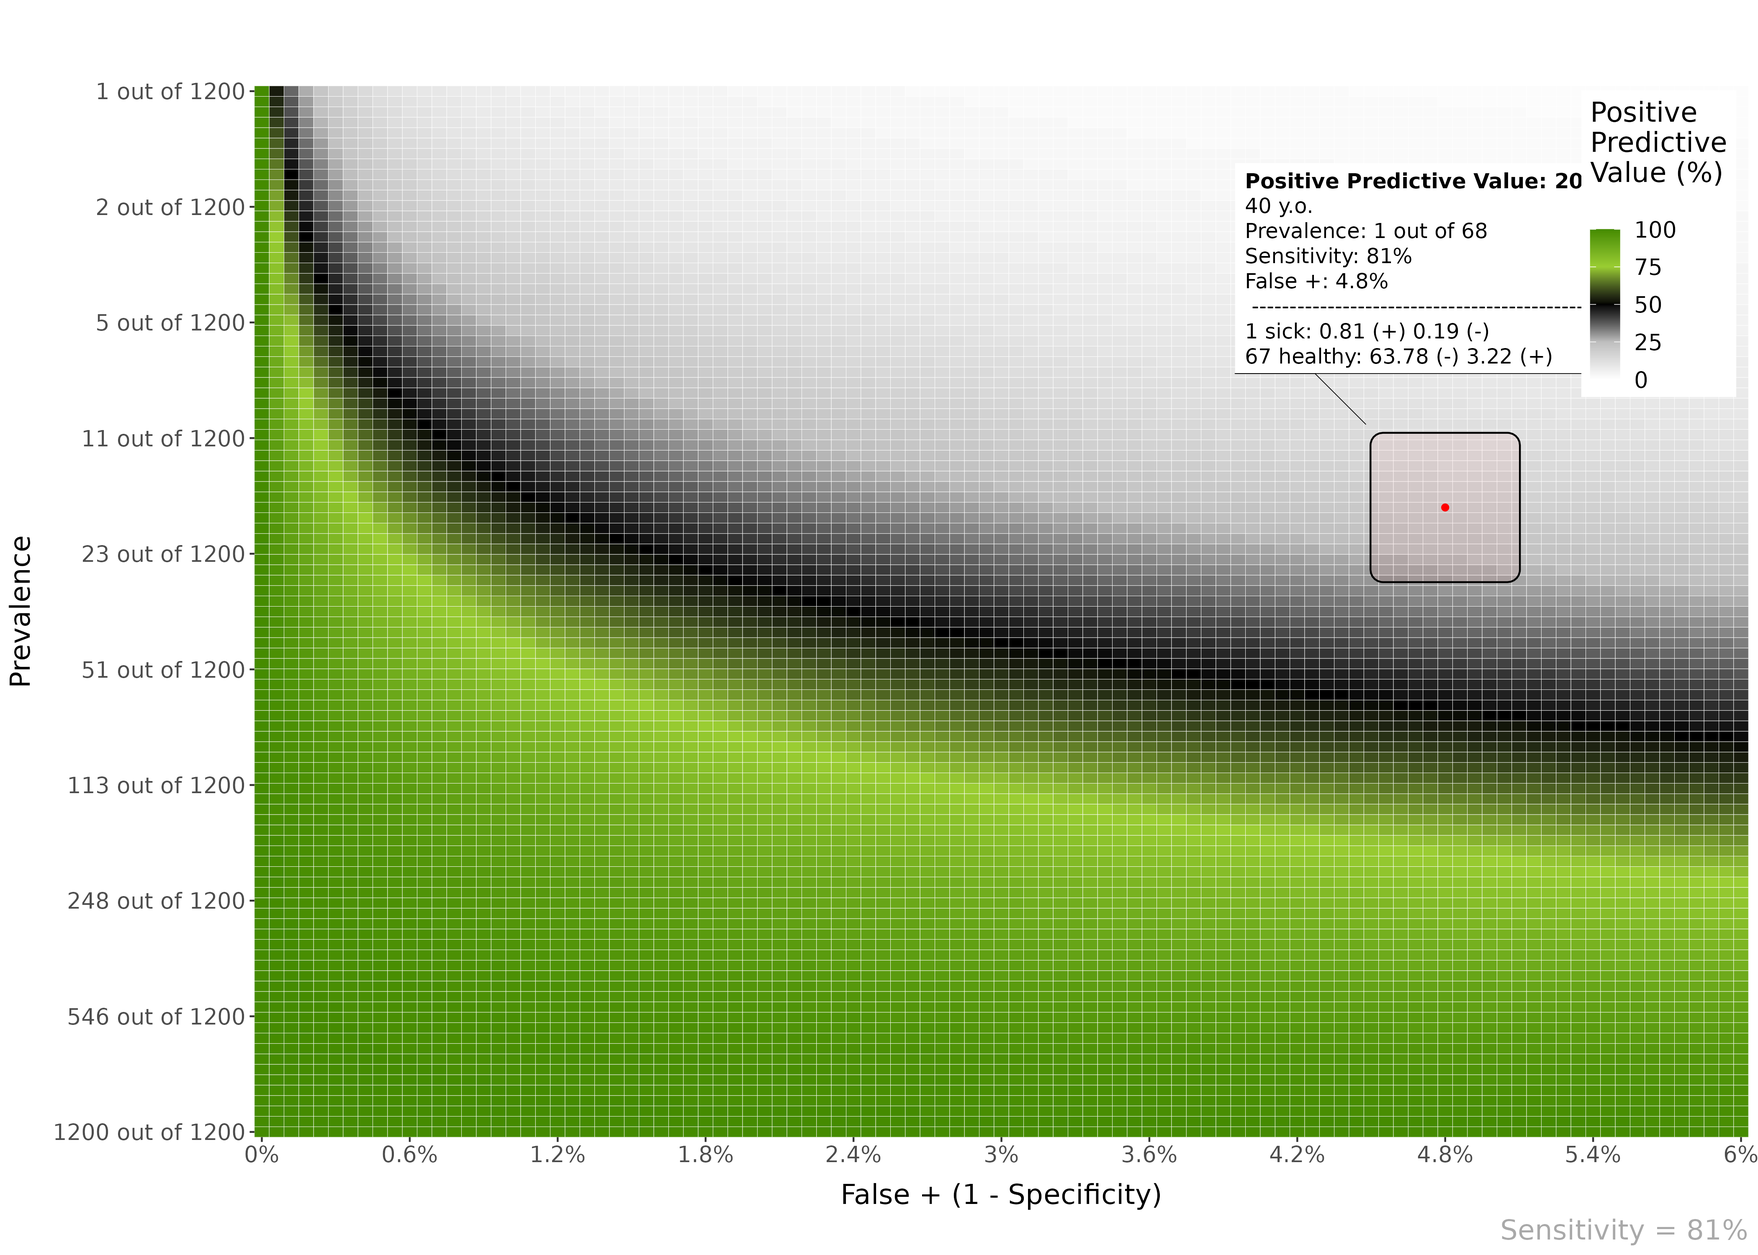
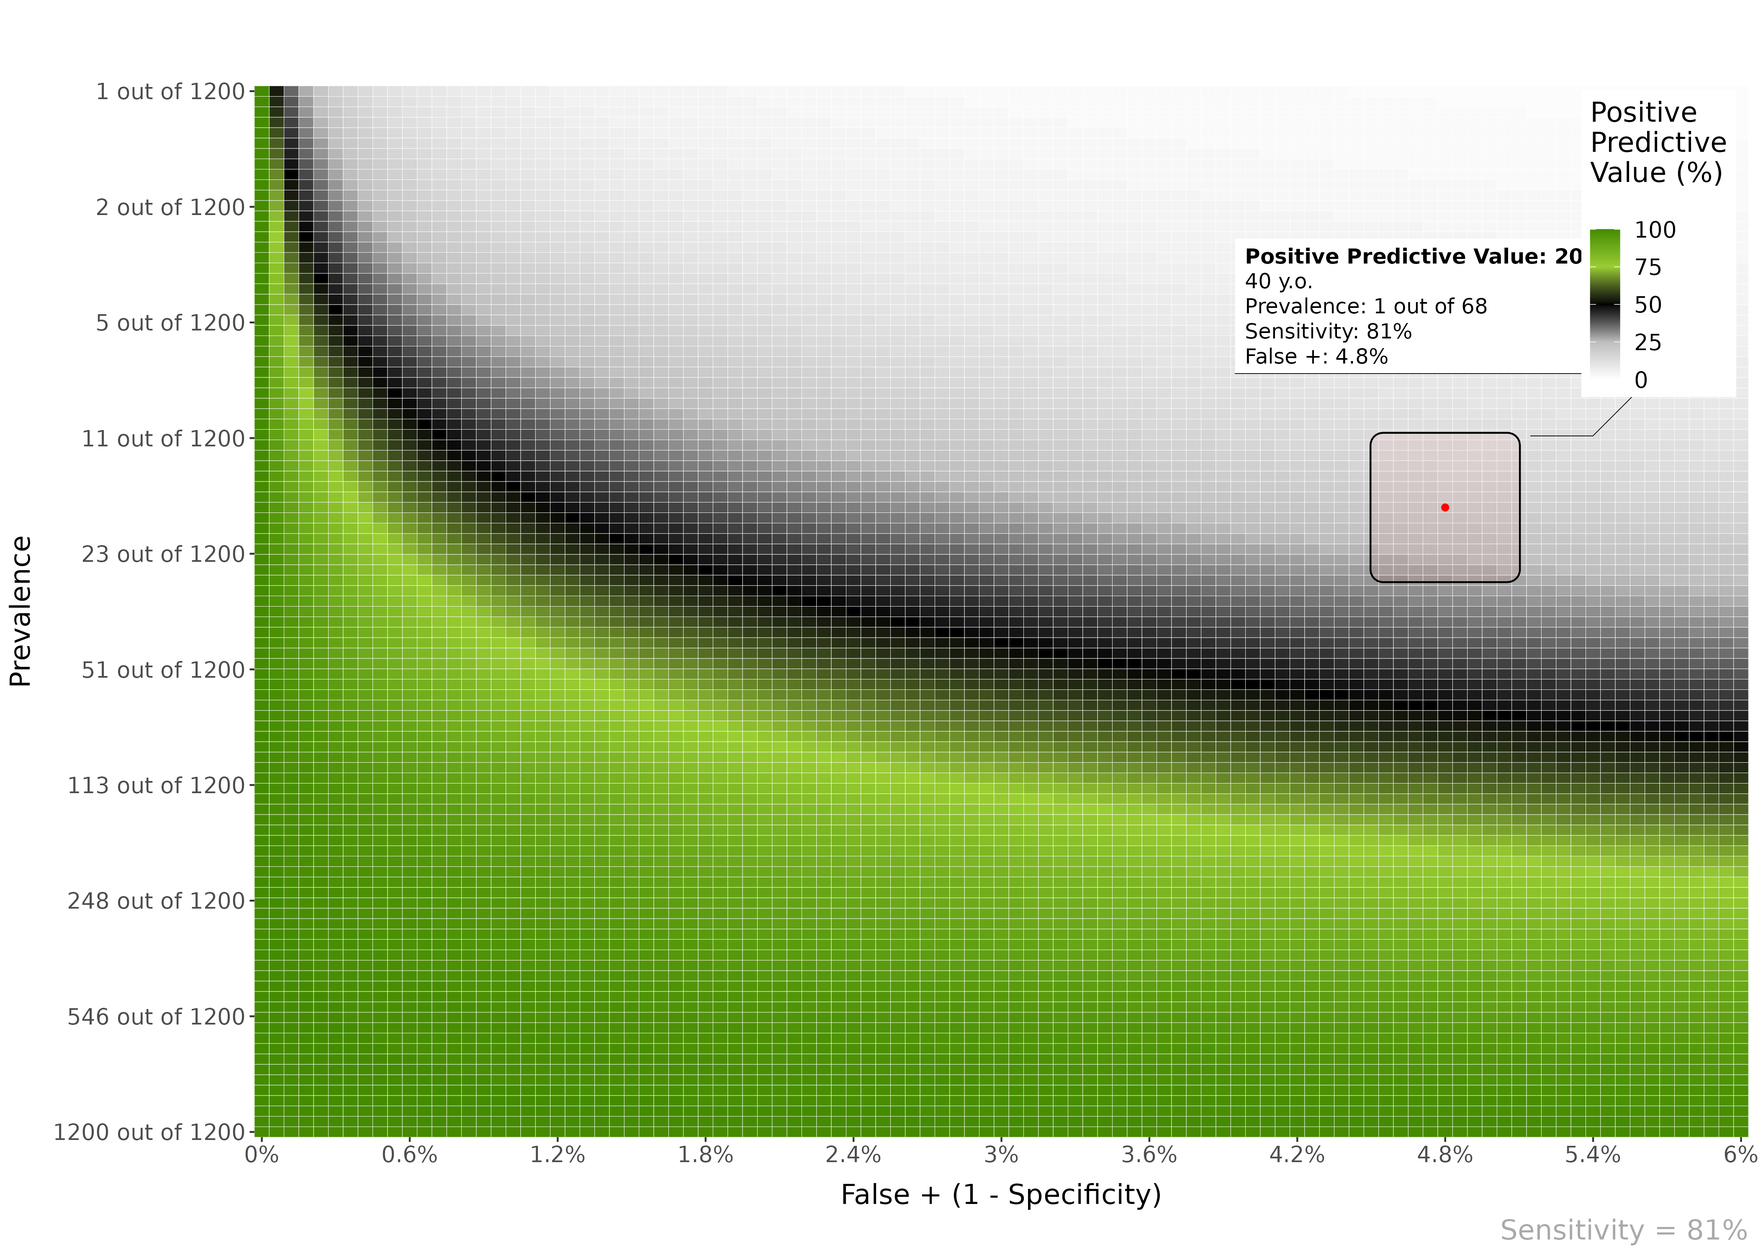
update docs

Changed region(s): [[0.7174, 0.124, 0.9045, 0.31]]

diff --git a/docs/articles/introduction.html b/docs/articles/introduction.html
@@ -33,7 +33,7 @@
     
     <a class="navbar-brand me-2" href="../index.html">BayesianReasoning</a>
 
-    <small class="nav-text text-muted me-auto" data-bs-toggle="tooltip" data-bs-placement="bottom" title="">0.4.0.9990</small>
+    <small class="nav-text text-muted me-auto" data-bs-toggle="tooltip" data-bs-placement="bottom" title="">0.4.0</small>
 
     
     <button class="navbar-toggler" type="button" data-bs-toggle="collapse" data-bs-target="#navbar" aria-controls="navbar" aria-expanded="false" aria-label="Toggle navigation">
@@ -79,7 +79,7 @@
       <img src="../logo.png" class="logo" alt=""><h1>Introduction to BayesianReasoning</h1>
                         <h4 data-toc-skip class="author">Gorka Navarrete</h4>
             
-            <h4 data-toc-skip class="date">2021-12-18</h4>
+            <h4 data-toc-skip class="date">2021-12-20</h4>
       
       <small class="dont-index">Source: <a href="https://github.com/gorkang/BayesianReasoning/blob/HEAD/vignettes/introduction.Rmd" class="external-link"><code>vignettes/introduction.Rmd</code></a></small>
       <div class="d-none name"><code>introduction.Rmd</code></div>
@@ -130,7 +130,7 @@
             Sensitivity <span class="op">=</span> <span class="fl">100</span>, 
             Language <span class="op">=</span> <span class="st">"en"</span><span class="op">)</span>
 <span class="co">#&gt; Warning in process_variables(min_Prevalence = min_Prevalence, max_Prevalence</span>
-<span class="co">#&gt; = max_Prevalence, : Specificity and limits_Specificity are NULL. Setting</span>
+<span class="co">#&gt; = max_Prevalence, : * Specificity and limits_Specificity are NULL. Setting</span>
 <span class="co">#&gt; Specificity = 95 and limits_Specificity = c(90, 100)</span></code></pre></div>
 <p><img src="introduction_files/figure-html/heatmap-1.png" width="4200"></p>
 <hr>
@@ -146,7 +146,7 @@
             Specificity <span class="op">=</span> <span class="fl">95</span>, 
             Language <span class="op">=</span> <span class="st">"en"</span><span class="op">)</span>
 <span class="co">#&gt; Warning in process_variables(min_Prevalence = min_Prevalence, max_Prevalence</span>
-<span class="co">#&gt; = max_Prevalence, : Sensitivity and limits_Specificity are NULL. Setting</span>
+<span class="co">#&gt; = max_Prevalence, : * Sensitivity and limits_Specificity are NULL. Setting</span>
 <span class="co">#&gt; Sensitivity = 95 and limits_Sensitivity = c(90, 100)</span></code></pre></div>
 <p><img src="introduction_files/figure-html/NPV-heatmap-1.png" width="4200"></p>
 <hr>
@@ -168,12 +168,26 @@
             overlay_prevalence_1 <span class="op">=</span> <span class="fl">1</span>,
             overlay_prevalence_2 <span class="op">=</span> <span class="fl">68</span><span class="op">)</span></code></pre></div>
 <p><img src="introduction_files/figure-html/area-1.png" width="4200"></p>
+<p>The area plot overlay can show more details about how the calculation of PPV/NPV is performed:</p>
+<div class="sourceCode" id="cb4"><pre class="downlit sourceCode r">
+<code class="sourceCode R">
+<span class="fu"><a href="../reference/PPV_heatmap.html">PPV_heatmap</a></span><span class="op">(</span>min_Prevalence <span class="op">=</span> <span class="fl">1</span>, max_Prevalence <span class="op">=</span> <span class="fl">1200</span>, 
+            Sensitivity <span class="op">=</span> <span class="fl">81</span>, 
+            limits_Specificity <span class="op">=</span> <span class="fu"><a href="https://rdrr.io/r/base/c.html" class="external-link">c</a></span><span class="op">(</span><span class="fl">94</span>, <span class="fl">100</span><span class="op">)</span>,
+            label_subtitle <span class="op">=</span> <span class="st">"Prenatal screening for Down Syndrome by Age"</span>, 
+            overlay_extra_info <span class="op">=</span> <span class="cn">TRUE</span>,
+            overlay <span class="op">=</span> <span class="st">"area"</span>,
+            overlay_labels <span class="op">=</span> <span class="st">"40 y.o."</span>,
+            overlay_position_FP <span class="op">=</span> <span class="fl">4.8</span>,
+            overlay_prevalence_1 <span class="op">=</span> <span class="fl">1</span>,
+            overlay_prevalence_2 <span class="op">=</span> <span class="fl">68</span><span class="op">)</span></code></pre></div>
+<p><img src="introduction_files/figure-html/area2-1.png" width="4200"></p>
 </div>
 <div class="section level3">
 <h3 id="line-overlay">Line overlay<a class="anchor" aria-label="anchor" href="#line-overlay"></a>
 </h3>
 <p>Also, you can add a line overlay highlighting a range of prevalences and FP. This is useful, for example, to show how the PPV of a test changes with age:</p>
-<div class="sourceCode" id="cb4"><pre class="downlit sourceCode r">
+<div class="sourceCode" id="cb5"><pre class="downlit sourceCode r">
 <code class="sourceCode R">
 <span class="fu"><a href="../reference/PPV_heatmap.html">PPV_heatmap</a></span><span class="op">(</span>min_Prevalence <span class="op">=</span> <span class="fl">1</span>, max_Prevalence <span class="op">=</span> <span class="fl">1800</span>, 
             Sensitivity <span class="op">=</span> <span class="fl">90</span>, 
@@ -187,7 +201,7 @@
 <p><img src="introduction_files/figure-html/line-1.png" width="4200"></p>
 <hr>
 <p>Another example. In this case, the FP is constant across age:</p>
-<div class="sourceCode" id="cb5"><pre class="downlit sourceCode r">
+<div class="sourceCode" id="cb6"><pre class="downlit sourceCode r">
 <code class="sourceCode R">
 <span class="fu"><a href="../reference/PPV_heatmap.html">PPV_heatmap</a></span><span class="op">(</span>min_Prevalence <span class="op">=</span> <span class="fl">1</span>, max_Prevalence <span class="op">=</span> <span class="fl">2000</span>, Sensitivity <span class="op">=</span> <span class="fl">81</span>, 
             limits_Specificity <span class="op">=</span> <span class="fu"><a href="https://rdrr.io/r/base/c.html" class="external-link">c</a></span><span class="op">(</span><span class="fl">94</span>, <span class="fl">100</span><span class="op">)</span>,
@@ -206,7 +220,7 @@
 </h2>
 <p>In scientific studies developing a new test for the early detection of a medical condition, it is quite common to use a sample where 50% of participants has a medical condition and the other 50% are normal controls. This has the unintended effect of maximizing the PPV of the test.</p>
 <p>This function shows a plot with the difference between the PPV of a diagnostic context (very high prevalence; or a common study sample, e.g. ~50% prevalence) versus that of a screening context (lower prevalence).</p>
-<div class="sourceCode" id="cb6"><pre class="downlit sourceCode r">
+<div class="sourceCode" id="cb7"><pre class="downlit sourceCode r">
 <code class="sourceCode R">
 <span class="fu"><a href="../reference/PPV_diagnostic_vs_screening.html">PPV_diagnostic_vs_screening</a></span><span class="op">(</span>max_FP <span class="op">=</span> <span class="fl">10</span>, 
                             Sensitivity <span class="op">=</span> <span class="fl">100</span>, 
@@ -220,7 +234,7 @@
 </h2>
 <p>Imagine you would like to use a test in a population and want to have a 98% PPV. That is, IF a positive result comes out in the test, you would like a 98% certainty that it is a true positive.</p>
 <p>How high should the prevalence of the disease be in that group?</p>
-<div class="sourceCode" id="cb7"><pre class="downlit sourceCode r">
+<div class="sourceCode" id="cb8"><pre class="downlit sourceCode r">
 <code class="sourceCode R"><span class="fu"><a href="../reference/min_possible_prevalence.html">min_possible_prevalence</a></span><span class="op">(</span>Sensitivity <span class="op">=</span> <span class="fl">100</span>, 
                         FP_test <span class="op">=</span> <span class="fl">0.1</span>, 
                         min_PPV_desired <span class="op">=</span> <span class="fl">98</span><span class="op">)</span></code></pre></div>
@@ -229,7 +243,7 @@
 </blockquote>
 <hr>
 <p>Another example, with a very good test, and lower expectations:</p>
-<div class="sourceCode" id="cb8"><pre class="downlit sourceCode r">
+<div class="sourceCode" id="cb9"><pre class="downlit sourceCode r">
 <code class="sourceCode R"><span class="fu"><a href="../reference/min_possible_prevalence.html">min_possible_prevalence</a></span><span class="op">(</span>Sensitivity <span class="op">=</span> <span class="fl">99.9</span>, 
                         FP_test <span class="op">=</span> <span class="fl">.1</span>, 
                         min_PPV_desired <span class="op">=</span> <span class="fl">70</span><span class="op">)</span></code></pre></div>

diff --git a/docs/reference/PPV_heatmap.html b/docs/reference/PPV_heatmap.html
@@ -10,7 +10,7 @@
     
     <a class="navbar-brand me-2" href="../index.html">BayesianReasoning</a>
 
-    <small class="nav-text text-muted me-auto" data-bs-toggle="tooltip" data-bs-placement="bottom" title="">0.4.0.9990</small>
+    <small class="nav-text text-muted me-auto" data-bs-toggle="tooltip" data-bs-placement="bottom" title="">0.4.0</small>
 
     
     <button class="navbar-toggler" type="button" data-bs-toggle="collapse" data-bs-target="#navbar" aria-controls="navbar" aria-expanded="false" aria-label="Toggle navigation">
@@ -68,10 +68,11 @@
   one_out_of <span class="op">=</span> <span class="cn">FALSE</span>,
   overlay <span class="op">=</span> <span class="st">"no"</span>,
   overlay_labels <span class="op">=</span> <span class="st">""</span>,
+  overlay_extra_info <span class="op">=</span> <span class="cn">FALSE</span>,
   overlay_position_FP <span class="op">=</span> <span class="cn">NULL</span>,
   overlay_position_FN <span class="op">=</span> <span class="cn">NULL</span>,
-  overlay_prevalence_1 <span class="op">=</span> <span class="fl">1</span>,
-  overlay_prevalence_2 <span class="op">=</span> <span class="fl">100</span>,
+  overlay_prevalence_1 <span class="op">=</span> <span class="cn">NULL</span>,
+  overlay_prevalence_2 <span class="op">=</span> <span class="cn">NULL</span>,
   uncertainty_prevalence <span class="op">=</span> <span class="st">"high"</span>,
   label_title <span class="op">=</span> <span class="st">""</span>,
   label_subtitle <span class="op">=</span> <span class="st">""</span>,
@@ -103,6 +104,8 @@
 <dd><p>Type of overlay: ["line", "area"]</p></dd>
 <dt>overlay_labels</dt>
 <dd><p>Labels for each point in the overlay. For example: c("80", "70", "60", "50", "40", "30", "20  y.o.")</p></dd>
+<dt>overlay_extra_info</dt>
+<dd><p>show extra info in overlay? [TRUE/FALSE]</p></dd>
 <dt>overlay_position_FP</dt>
 <dd><p>FP value (position in the x-axis) for each point in the overlay. For example: c(7, 8, 9, 12, 14, 14)</p></dd>
 <dt>overlay_position_FN</dt>
@@ -140,7 +143,7 @@
 <span class="r-in">Sensitivity <span class="op">=</span> <span class="fl">100</span>, </span>
 <span class="r-in">Specificity <span class="op">=</span> <span class="fl">98</span>, </span>
 <span class="r-in">Language <span class="op">=</span> <span class="st">"en"</span><span class="op">)</span></span>
-<span class="r-wrn co"><span class="r-pr">#&gt;</span> <span class="warning">Warning: </span>limits_Specificity is NULL. Setting limits_Specificity = c(93, 103)</span>
+<span class="r-wrn co"><span class="r-pr">#&gt;</span> <span class="warning">Warning: </span>* limits_Specificity is NULL. Setting limits_Specificity = c(93, 103)</span>
 <span class="r-plt img"><img src="PPV_heatmap-1.png" alt="" width="700" height="433"></span>
 </code></pre></div>
     </div>

diff --git a/docs/news/index.html b/docs/news/index.html
@@ -10,7 +10,7 @@
     
     <a class="navbar-brand me-2" href="../index.html">BayesianReasoning</a>
 
-    <small class="nav-text text-muted me-auto" data-bs-toggle="tooltip" data-bs-placement="bottom" title="">0.4.0.9990</small>
+    <small class="nav-text text-muted me-auto" data-bs-toggle="tooltip" data-bs-placement="bottom" title="">0.4.0</small>
 
     
     <button class="navbar-toggler" type="button" data-bs-toggle="collapse" data-bs-target="#navbar" aria-controls="navbar" aria-expanded="false" aria-label="Toggle navigation">
@@ -52,10 +52,10 @@
     </div>
 
     <div class="section level2">
-<h2 class="pkg-version" data-toc-text="0.4.0.9990" id="bayesianreasoning-0409990">BayesianReasoning 0.4.0.9990<a class="anchor" aria-label="anchor" href="#bayesianreasoning-0409990"></a></h2>
+<h2 class="pkg-version" data-toc-text="0.4.0" id="bayesianreasoning-040">BayesianReasoning 0.4.0<a class="anchor" aria-label="anchor" href="#bayesianreasoning-040"></a></h2>
 <p>Major updates</p>
 <ul><li>Refactored the way we calculate PPV and NPV</li>
-<li>Added new parameter to control type of y scale (one_out_of)</li>
+<li>Added new parameter to control type of y scale (one_out_of) # 33</li>
 <li>Added new parameter to control x axis (limits_Sensitivity and limits_Specificity)</li>
 <li>Added multiple checks to catch corner conditions</li>
 <li>Renamed lots of parameters to make things more coherent</li>
@@ -66,6 +66,7 @@
 <li>Translate all elements in area overlay</li>
 <li>Changed palette for NPV plots</li>
 <li>Add tests for new parameters and checks</li>
+<li>Add extra info in area overlay</li>
 </ul></div>
     <div class="section level2">
 <h2 class="pkg-version" data-toc-text="0.3.3" id="bayesianreasoning-033">BayesianReasoning 0.3.3<a class="anchor" aria-label="anchor" href="#bayesianreasoning-033"></a></h2><p class="text-muted">CRAN release: 2021-06-21</p>

diff --git a/docs/authors.html b/docs/authors.html
@@ -10,7 +10,7 @@
     
     <a class="navbar-brand me-2" href="index.html">BayesianReasoning</a>
 
-    <small class="nav-text text-muted me-auto" data-bs-toggle="tooltip" data-bs-placement="bottom" title="">0.4.0.9990</small>
+    <small class="nav-text text-muted me-auto" data-bs-toggle="tooltip" data-bs-placement="bottom" title="">0.4.0</small>
 
     
     <button class="navbar-toggler" type="button" data-bs-toggle="collapse" data-bs-target="#navbar" aria-controls="navbar" aria-expanded="false" aria-label="Toggle navigation">
@@ -65,13 +65,13 @@
 
       <p>Navarrete G (2021).
 <em>BayesianReasoning: Plot Positive and Negative Predictive Values for Medical Tests</em>.
-R package version 0.4.0.9990, <a href="https://github.com/gorkang/BayesianReasoning" class="external-link">https://github.com/gorkang/BayesianReasoning</a>. 
+R package version 0.4.0, <a href="https://github.com/gorkang/BayesianReasoning" class="external-link">https://github.com/gorkang/BayesianReasoning</a>. 
 </p>
       <pre>@Manual{,
   title = {BayesianReasoning: Plot Positive and Negative Predictive Values for Medical Tests},
   author = {Gorka Navarrete},
   year = {2021},
-  note = {R package version 0.4.0.9990},
+  note = {R package version 0.4.0},
   url = {https://github.com/gorkang/BayesianReasoning},
 }</pre>
     </div>

diff --git a/docs/reference/dot-get_point_ppv_npv.html b/docs/reference/dot-get_point_ppv_npv.html
@@ -10,7 +10,7 @@
     
     <a class="navbar-brand me-2" href="../index.html">BayesianReasoning</a>
 
-    <small class="nav-text text-muted me-auto" data-bs-toggle="tooltip" data-bs-placement="bottom" title="">0.4.0.9990</small>
+    <small class="nav-text text-muted me-auto" data-bs-toggle="tooltip" data-bs-placement="bottom" title="">0.4.0</small>
 
     
     <button class="navbar-toggler" type="button" data-bs-toggle="collapse" data-bs-target="#navbar" aria-controls="navbar" aria-expanded="false" aria-label="Toggle navigation">
@@ -67,6 +67,7 @@
   <span class="va">overlay_prevalence_1</span>,
   <span class="va">overlay_prevalence_2</span>,
   <span class="va">overlay_labels</span>,
+  overlay_extra_info <span class="op">=</span> <span class="cn">FALSE</span>,
   <span class="va">overlay_position_FP</span>,
   <span class="va">overlay_position_FN</span>,
   <span class="va">point_Prevalence</span>,
@@ -94,6 +95,8 @@
 <dd><p>x out of [y] prevalence of disease</p></dd>
 <dt>overlay_labels</dt>
 <dd><p>.</p></dd>
+<dt>overlay_extra_info</dt>
+<dd><p>show extra info in overlay? [TRUE/FALSE]</p></dd>
 <dt>overlay_position_FP</dt>
 <dd><p>.</p></dd>
 <dt>overlay_position_FN</dt>

diff --git a/docs/reference/dot-plot_overlay_area.html b/docs/reference/dot-plot_overlay_area.html
@@ -10,7 +10,7 @@
     
     <a class="navbar-brand me-2" href="../index.html">BayesianReasoning</a>
 
-    <small class="nav-text text-muted me-auto" data-bs-toggle="tooltip" data-bs-placement="bottom" title="">0.4.0.9990</small>
+    <small class="nav-text text-muted me-auto" data-bs-toggle="tooltip" data-bs-placement="bottom" title="">0.4.0</small>
 
     
     <button class="navbar-toggler" type="button" data-bs-toggle="collapse" data-bs-target="#navbar" aria-controls="navbar" aria-expanded="false" aria-label="Toggle navigation">
@@ -83,6 +83,7 @@
   <span class="va">overlay_position_FP</span>,
   <span class="va">overlay_position_FN</span>,
   overlay_labels <span class="op">=</span> <span class="st">""</span>,
+  overlay_extra_info <span class="op">=</span> <span class="cn">FALSE</span>,
   <span class="va">...</span>
 <span class="op">)</span></code></pre></div>
     </div>

diff --git a/docs/articles/index.html b/docs/articles/index.html
@@ -10,7 +10,7 @@
     
     <a class="navbar-brand me-2" href="../index.html">BayesianReasoning</a>
 
-    <small class="nav-text text-muted me-auto" data-bs-toggle="tooltip" data-bs-placement="bottom" title="">0.4.0.9990</small>
+    <small class="nav-text text-muted me-auto" data-bs-toggle="tooltip" data-bs-placement="bottom" title="">0.4.0</small>
 
     
     <button class="navbar-toggler" type="button" data-bs-toggle="collapse" data-bs-target="#navbar" aria-controls="navbar" aria-expanded="false" aria-label="Toggle navigation">

diff --git a/docs/reference/BayesianReasoning.html b/docs/reference/BayesianReasoning.html
@@ -10,7 +10,7 @@
     
     <a class="navbar-brand me-2" href="../index.html">BayesianReasoning</a>
 
-    <small class="nav-text text-muted me-auto" data-bs-toggle="tooltip" data-bs-placement="bottom" title="">0.4.0.9990</small>
+    <small class="nav-text text-muted me-auto" data-bs-toggle="tooltip" data-bs-placement="bottom" title="">0.4.0</small>
 
     
     <button class="navbar-toggler" type="button" data-bs-toggle="collapse" data-bs-target="#navbar" aria-controls="navbar" aria-expanded="false" aria-label="Toggle navigation">

diff --git a/docs/reference/PPV_diagnostic_vs_screening.html b/docs/reference/PPV_diagnostic_vs_screening.html
@@ -10,7 +10,7 @@
     
     <a class="navbar-brand me-2" href="../index.html">BayesianReasoning</a>
 
-    <small class="nav-text text-muted me-auto" data-bs-toggle="tooltip" data-bs-placement="bottom" title="">0.4.0.9990</small>
+    <small class="nav-text text-muted me-auto" data-bs-toggle="tooltip" data-bs-placement="bottom" title="">0.4.0</small>
 
     
     <button class="navbar-toggler" type="button" data-bs-toggle="collapse" data-bs-target="#navbar" aria-controls="navbar" aria-expanded="false" aria-label="Toggle navigation">

diff --git a/docs/reference/dot-createPPVmatrix.html b/docs/reference/dot-createPPVmatrix.html
@@ -10,7 +10,7 @@
     
     <a class="navbar-brand me-2" href="../index.html">BayesianReasoning</a>
 
-    <small class="nav-text text-muted me-auto" data-bs-toggle="tooltip" data-bs-placement="bottom" title="">0.4.0.9990</small>
+    <small class="nav-text text-muted me-auto" data-bs-toggle="tooltip" data-bs-placement="bottom" title="">0.4.0</small>
 
     
     <button class="navbar-toggler" type="button" data-bs-toggle="collapse" data-bs-target="#navbar" aria-controls="navbar" aria-expanded="false" aria-label="Toggle navigation">

diff --git a/docs/reference/dot-number_decimals_plot_axis.html b/docs/reference/dot-number_decimals_plot_axis.html
@@ -10,7 +10,7 @@
     
     <a class="navbar-brand me-2" href="../index.html">BayesianReasoning</a>
 
-    <small class="nav-text text-muted me-auto" data-bs-toggle="tooltip" data-bs-placement="bottom" title="">0.4.0.9990</small>
+    <small class="nav-text text-muted me-auto" data-bs-toggle="tooltip" data-bs-placement="bottom" title="">0.4.0</small>
 
     
     <button class="navbar-toggler" type="button" data-bs-toggle="collapse" data-bs-target="#navbar" aria-controls="navbar" aria-expanded="false" aria-label="Toggle navigation">

diff --git a/docs/reference/dot-plot_creation.html b/docs/reference/dot-plot_creation.html
@@ -10,7 +10,7 @@
     
     <a class="navbar-brand me-2" href="../index.html">BayesianReasoning</a>
 
-    <small class="nav-text text-muted me-auto" data-bs-toggle="tooltip" data-bs-placement="bottom" title="">0.4.0.9990</small>
+    <small class="nav-text text-muted me-auto" data-bs-toggle="tooltip" data-bs-placement="bottom" title="">0.4.0</small>
 
     
     <button class="navbar-toggler" type="button" data-bs-toggle="collapse" data-bs-target="#navbar" aria-controls="navbar" aria-expanded="false" aria-label="Toggle navigation">
